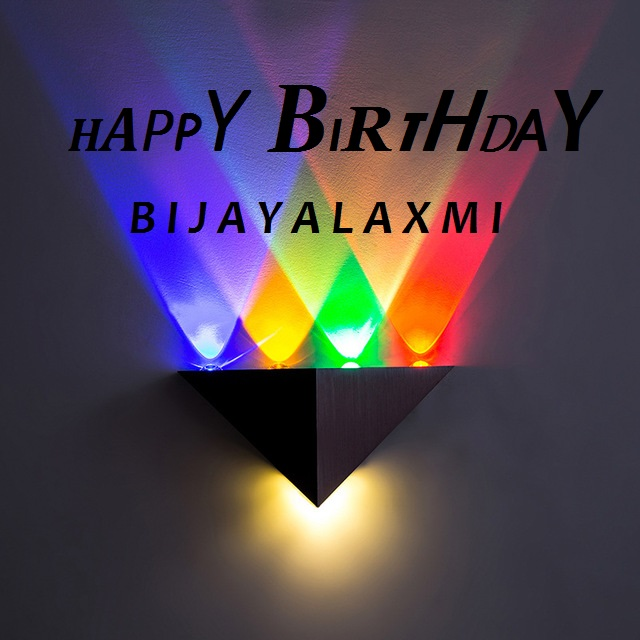
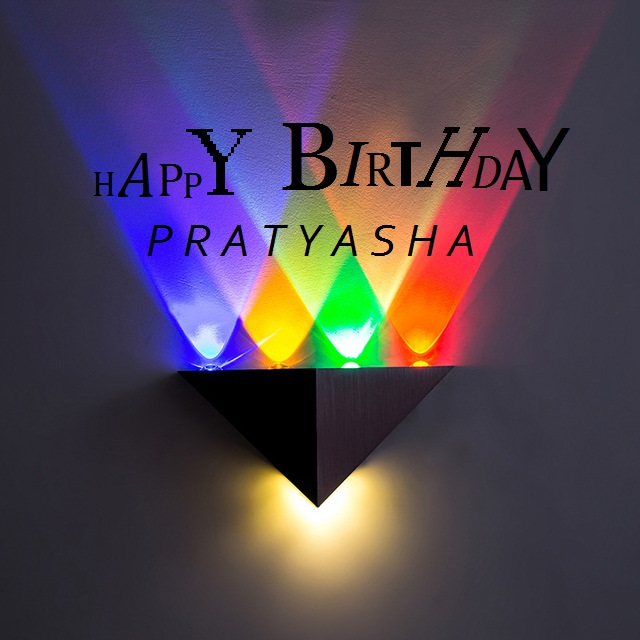
Add files via upload

Changed region(s): [[0.0938, 0.125, 0.9375, 0.4062], [0.375, 0.125, 0.4062, 0.1562]]

diff --git a/five.html b/five.html
@@ -1,7 +1,7 @@
 <!DOCTYPE html>
 <html lang="en">
 	<head>
-		<title>Happy Birthday Bijayalaxmi</title>
+		<title>Happy Birthday Pratyasha</title>
 		<meta charset="UTF-8">
 		<meta name="viewport"content="width=device-width, initial-scale=1.0">
 		<link href='https://fonts.googleapis.com/css?family=Barrio' rel='stylesheet'>
@@ -28,7 +28,7 @@
 			<div class="row">
 				<div class="col-lg-6 col-md-6  col-lg-offset-3 col-md-offset-3">
 					<div class="thumbnail">
-						<img src="img/p5.jpg" alt="firstPic" class="img-responsive">
+						<img src="img/fab.png" alt="firstPic" class="img-responsive">
 					</div>
 				</div>
 			</div>
@@ -37,7 +37,7 @@
 			<div id="main_content" class="container">
 				<center><strong>
 					<p style="background: url(img/g2.gif) no-repeat center;color: white;padding:60px;font-size:20px;font-family: 'Barrio';font-size: 22px;">
-					Good Bye
+					Party Pending !!!
 					</p></strong></center>
 			</div>
 		</div>

diff --git a/three.html b/three.html
@@ -1,7 +1,7 @@
 <!DOCTYPE html>
 <html lang="en">
 	<head>
-		<title>Happy Birthday Bijayalaxmi</title>
+		<title>Happy Birthday Pratyasha</title>
 		<meta charset="UTF-8">
 		<meta name="viewport"content="width=device-width, initial-scale=1.0">
 		<!-- the Fabicon -->
@@ -13,7 +13,7 @@
 		<!-- Latest compiled JavaScript -->
 		<script src="https://maxcdn.bootstrapcdn.com/bootstrap/3.3.7/js/bootstrap.min.js"></script>
 	</head>
-	<body>
+	<body style="background-color:lightblue;">
 		</br></br>
 		<div class="container-fluid">
 			<center>
@@ -27,7 +27,7 @@
 			<div class="row">
 				<div class="col-lg-6 col-md-6  col-lg-offset-3 col-md-offset-3">
 					<div class="thumbnail">
-						<img src="img/p3.png" alt="firstPic" class="img-responsive">
+						<img src="img/p3.jpg" alt="firstPic" class="img-responsive">
 					</div>
 				</div>
 			</div>

diff --git a/two.html b/two.html
@@ -1,7 +1,7 @@
 <!DOCTYPE html>
 <html lang="en">
 	<head>
-		<title>Happy Birthday Bijayalaxmi</title>
+		<title>Happy Birthday Pratyasha</title>
 		<meta charset="UTF-8">
 		<meta name="viewport"content="width=device-width, initial-scale=1.0">
 		<!-- the Fabicon -->
@@ -13,7 +13,7 @@
 		<!-- Latest compiled JavaScript -->
 		<script src="https://maxcdn.bootstrapcdn.com/bootstrap/3.3.7/js/bootstrap.min.js"></script>
 	</head>
-	<body>
+	<body style="background-color:yellow;">
 		</br></br>
 		<div class="container-fluid">
 			<center>

diff --git a/index.html b/index.html
@@ -1,7 +1,7 @@
 <!DOCTYPE html>
 <html lang="en">
 	<head>
-		<title>Happy Birthday Bijayalaxmi</title>
+		<title>Happy Birthday Pratyasha</title>
 		<meta charset="UTF-8">
 		<meta name="viewport"content="width=device-width, initial-scale=1.0">
 		<link href='https://fonts.googleapis.com/css?family=Barrio' rel='stylesheet'>

diff --git a/four.html b/four.html
@@ -1,7 +1,7 @@
 <!DOCTYPE html>
 <html lang="en">
 	<head>
-		<title>Happy Birthday Bijayalaxmi</title>
+		<title>Happy Birthday Pratyasha</title>
 		<meta charset="UTF-8">
 		<meta name="viewport"content="width=device-width, initial-scale=1.0">
 		<!-- the Fabicon -->
